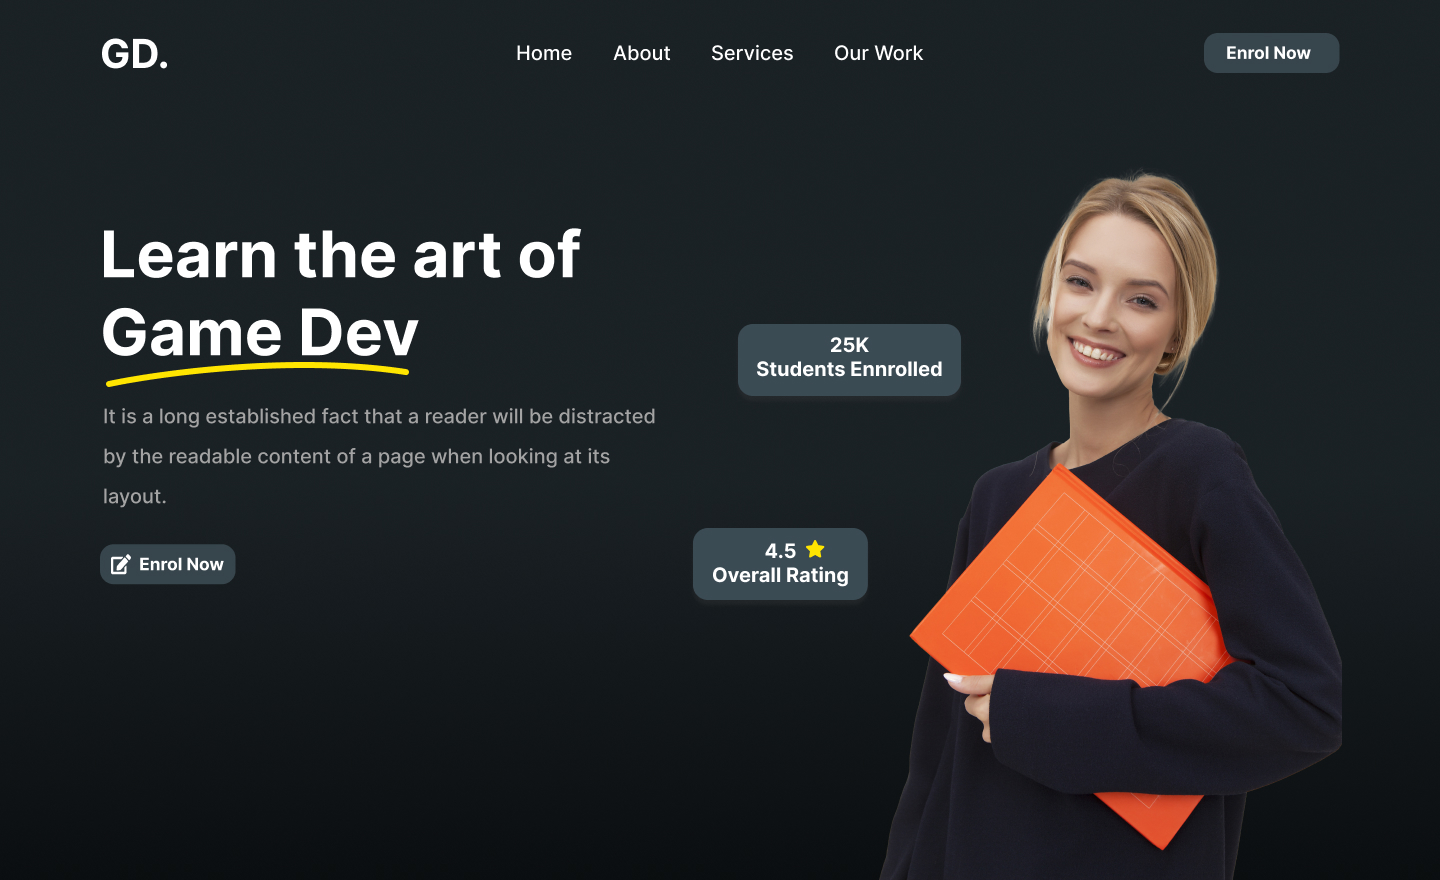
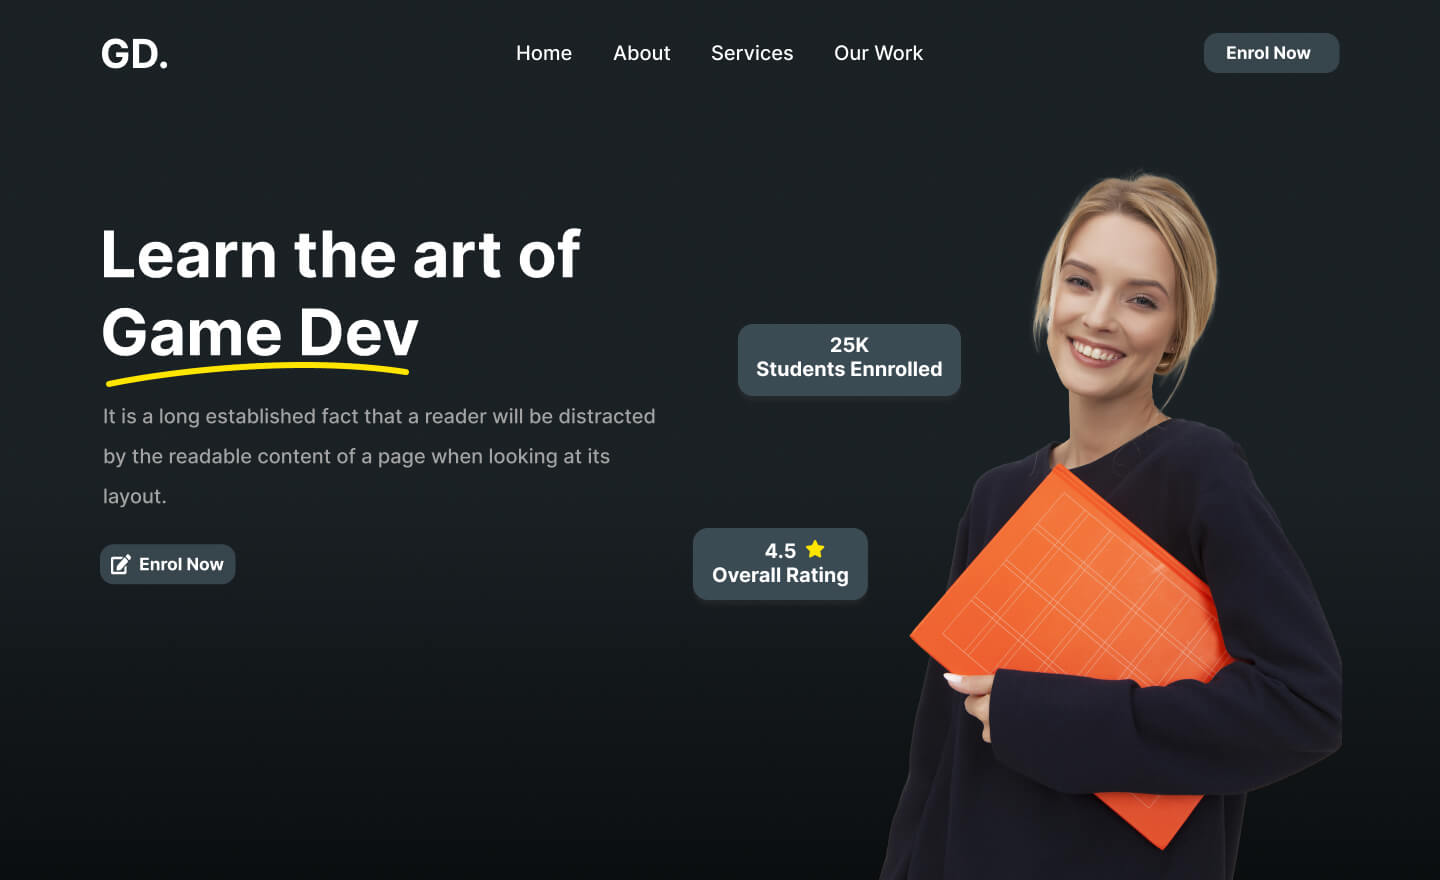
image optimized

diff --git a/pages/services/web-design.js b/pages/services/web-design.js
@@ -70,7 +70,7 @@ const WebDesign = () => {
           </div>
           <div className="order-1 md:order-2">
             <img
-              src="/images/design-for-people.jpg"
+              src="/images/design-for-people.webp"
               alt=""
               className="w-full h-full object-contain rounded-3xl"
             />

diff --git a/styles/globals.css b/styles/globals.css
@@ -4,6 +4,12 @@
 @tailwind components;
 @tailwind utilities;
 
+@layer base {
+  html {
+    @apply scroll-smooth;
+  }
+}
+
 @layer components {
   ul li {
     @apply float-left;
